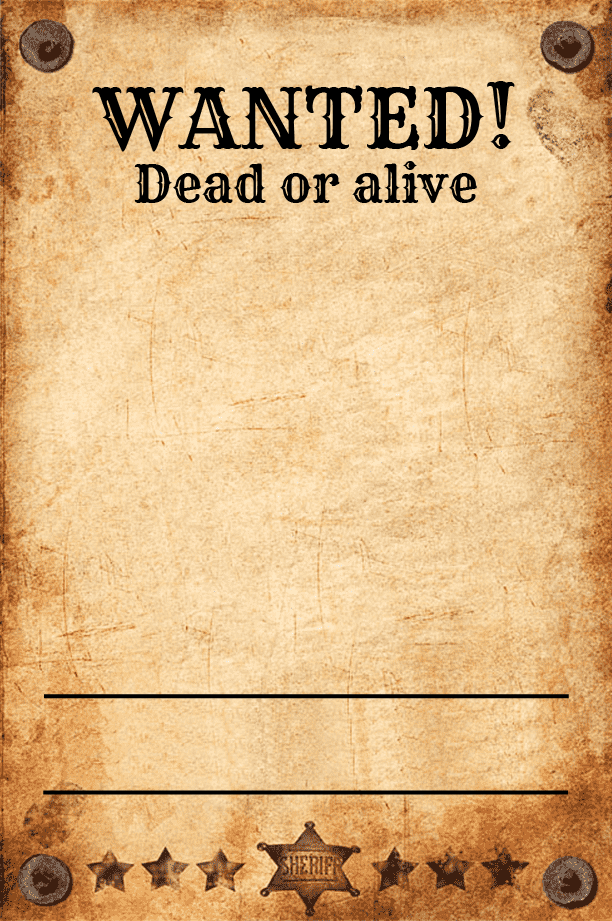
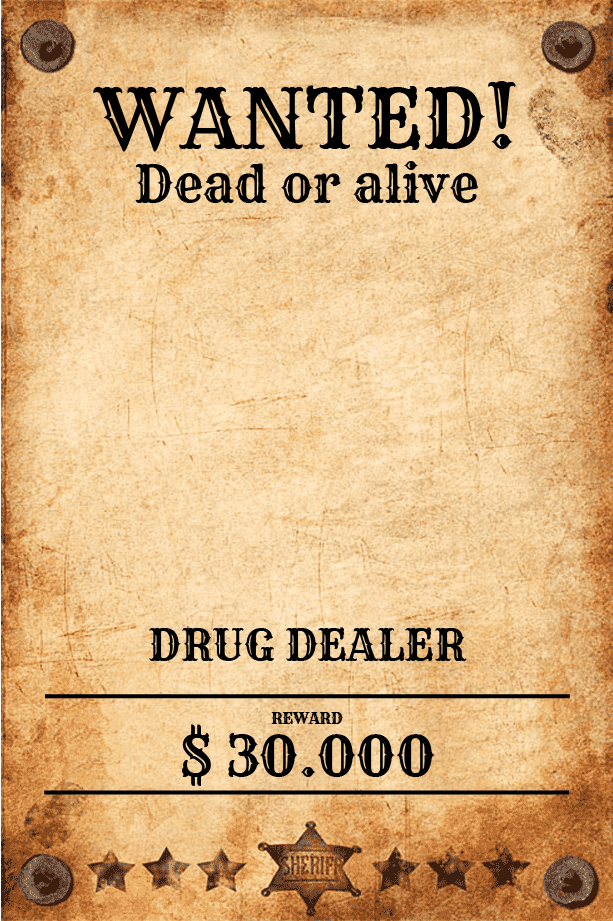
Updating sketch

diff --git a/sketch.js b/sketch.js
@@ -1,11 +1,22 @@
-let button;
-let myImage;
+let button, button2, input;
+let myBackground;
+let template = [];
 let start = false;
 let dimRect = 0;
 let myCapture;
 
 function preload() {
-	myImage = loadImage("./assets/template2.png")
+	myBackground = loadImage("./assets/background.png");
+	template[0] = loadImage("./assets/template1.png");
+	template[1] = loadImage("./assets/template2.png");
+	template[2] = loadImage("./assets/template3.png");
+	template[3] = loadImage("./assets/template4.png");
+	template[4] = loadImage("./assets/template5.png");
+	template[5] = loadImage("./assets/template6.png");
+	template[6] = loadImage("./assets/template7.png");
+	template[7] = loadImage("./assets/template8.png");
+	template[8] = loadImage("./assets/template9.png");
+	template[9] = loadImage("./assets/template10.png");
 }
 
 function setup() {
@@ -13,6 +24,7 @@ function setup() {
 	rectMode(CENTER);
 	translate(width/2, height/2);
 	background(0);
+	
 	fill("white");
 	textSize(30);
 	textFont("Rye");
@@ -53,13 +65,24 @@ function draw() {
 		rect(-200, 100, dimRect, 20);
 		dimRect += 1;
 		pop();
-	if (dimRect == 410) {
+	if (dimRect == 10) {
 		start = false;
-		background("brown");
+
+		background(myBackground);
 		imageMode(CENTER);
-	 	image(myImage, 0, 0, myImage.width/2 + 100, myImage.height/2 + 100);
-		
-  		 scale(-1, 1);
+		imageChoice = floor(random(0, 9));
+	 	image(template[imageChoice], 0, 0, template[imageChoice].width/2 + 100, template[imageChoice].height/2 + 100);
+
+		button2 = createButton('click to write your name');
+		button2.style('font-size', '20px');
+		button2.style('font-family', 'Rye');
+		button2.style('background-color', 'none');
+		button2.style('color', 'grey');
+		button2.size(300,-80);
+		button2.position(width/2 - 150, 220);
+		button2.mousePressed(writeName);
+
+  		scale(-1, 1);
   		image(myCapture, 0, 0, myCapture.width/3, myCapture.height/3);
 	}
 	}	
@@ -67,4 +90,24 @@ function draw() {
 
 function change() {
 	start = true;
+}
+function writeName() {
+	button2.remove();
+	input = createInput();
+		 input.position(width/2 - 150, 220);
+		 input.size(300, 20)
+}
+
+function keyPressed() {
+	if (keyCode === ENTER) {
+		console.log("yes");
+		let name = input.value();
+		button2.html(name);
+		input.value('');
+		fill("black");
+		//textSize(20);
+		textStyle(ITALIC);
+		text(name, 0, -100);
+		input.hide();
+	}
 }
